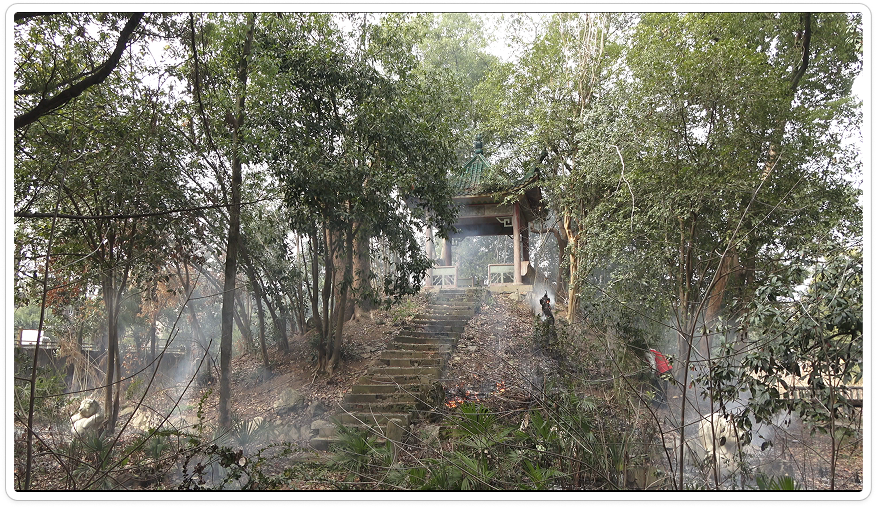
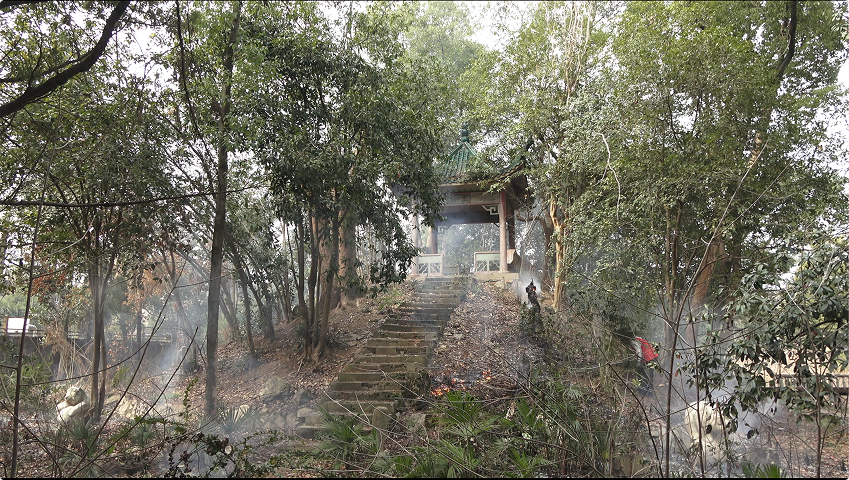
update note

diff --git a/app/lib/projectData.ts b/app/lib/projectData.ts
@@ -30,7 +30,7 @@ export interface ProjectDetail {
 export const projectsData: Record<string, ProjectDetail> = {
 
   "uro-film-note": {
-    title: "URO Enthnographic Notes",
+    title: "URO Notes",
     subtitle: "Docuemntary Film Working in progress",
     year: "2026",
     role: "Director & Writor",
@@ -79,7 +79,20 @@ export const projectsData: Record<string, ProjectDetail> = {
         content: "On June 7, 2013, a man named Chen Shuizong, despondent over disputes about his retirement benefits, set fire to a Bus Rapid Transit (BRT) vehicle in Xiamen, Fujian Province. 47 people died,34 injured. Coverage in mainland Chinese media was tightly controlled and quickly faded; there was no national mourning event, limited public memorial and discussion on the warfare system.",
         image: "/images/uro-fire.png", 
         imageCaption: "Golden paper burning ceremony in the temple"
+      },
+      {
+        title: "Fraud Village Witches (神婆shénpó)",
+        content: "神婆 refers to rural folk shamans, almost always women, who claim spiritual powers and are seen as both fearsome and fraudulent — a deeply gendered, classed insult drawn from Chinese village life. Living as a Buddhism Nun, they will need to fight against misunderstandings that their own ordination might be perceived from outside as performance, charlatanism, or self-delusion.",
+        image: "/images/uro-ezhou.png", 
+        imageCaption: "Community Buddhist Chanting Hall"
+      },
+      {
+        title: "On Mary Kay (玫琳凯) and Chen Anzhi (陈安之)",
+        content: "The American direct-sales cosmetics company entered China in 1995 and became a major recruitment system for working-class women in the late 1990s and early 2000s, especially in interior cities. Like other multi-level marketing schemes of that era — and like the success-coaching figure Chen Anzhi, whose seminars the mother attended — it offered women a fantasy of upward mobility through personal transformation, while functioning as a pyramid system in which most participants lost money. The mother's diary captures the entire arc: the manic optimism of joining, the shame of failure, the inability to disengage. For her generation of female factory workers facing layoffs from collapsing state enterprises, these schemes were one of the only available exits.",
+        image: "/images/uro-bishi1.png", 
+        imageCaption: "Work Unit's park"
       }
+      
     ],
     nextProject: {
       title: "Service Design in Chinese Community",

diff --git a/app/page.tsx b/app/page.tsx
@@ -123,11 +123,11 @@ export default function Home() {
           <h1 className="text-6xl md:text-8xl font-serif italic mb-8 leading-none tracking-wide text-white/90">
   Qianbao Tu
 </h1>
-          <p className="text-gray-400 text-lg md:text-xl font-light tracking-wide max-w2-xl mx-auto mb-4">
-            “What matters is not speak for, but to speak with.” 
+          <p className="text-gray-400 text-lg md:text-xl font-light tracking-wide max-w2-xl mx-auto mb-2">
+            What matters is not speak for, but to speak with. -Trinh T. Minh-ha
              </p>
-               <p className="text-gray-400 text-lg md:text-xl font-light tracking-wide max-w-2xl mx-auto mb-12">
-            我必须知道，自己如何同你紧密相连。
+               <p className="text-gray-400 text-lg md:text-s font-light tracking-wide max-w-2xl mx-auto mb-12">
+            我必须知道，自己何以同你紧密相连。
           </p>
         </div>
       </section>

diff --git a/components/DesignSection.tsx b/components/DesignSection.tsx
@@ -20,7 +20,7 @@ interface Project {
 const projects: Project[] = [
     {
     id: 1,
-    title: "URO Enthnographic Notes",
+    title: "URO Notes",
     subtitle: "Ethnographic film note | 2026",
     description: "After her mother ordains as a Buddhist nun and tells her, From today on, you don't have a mother anymore. You have to call me Master, a Chinese designer leaves her newly granted residency in Norway and returns to a rural Chinese temple, armed with a camera, her mother's old diaries, and a question she can no longer postpone.",
     tags: ["Ethnography", "Film", "Research"],
